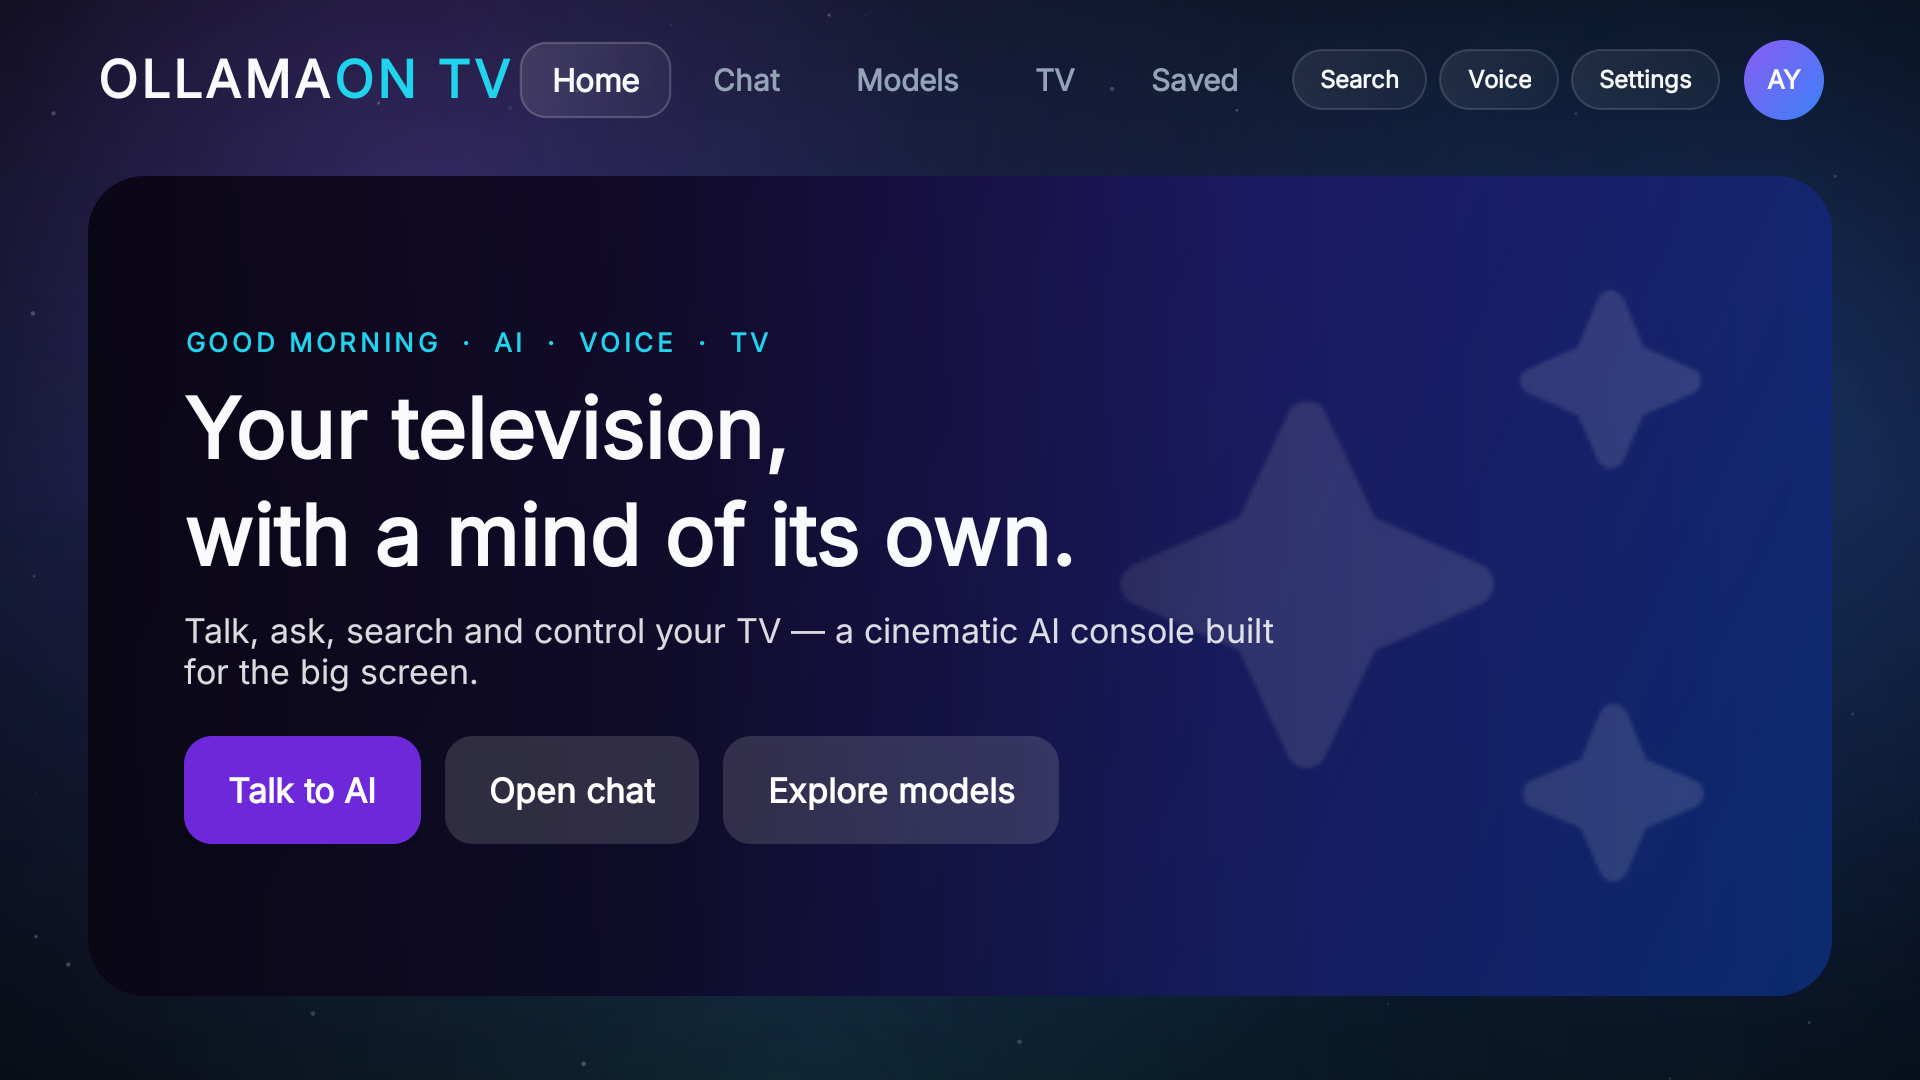
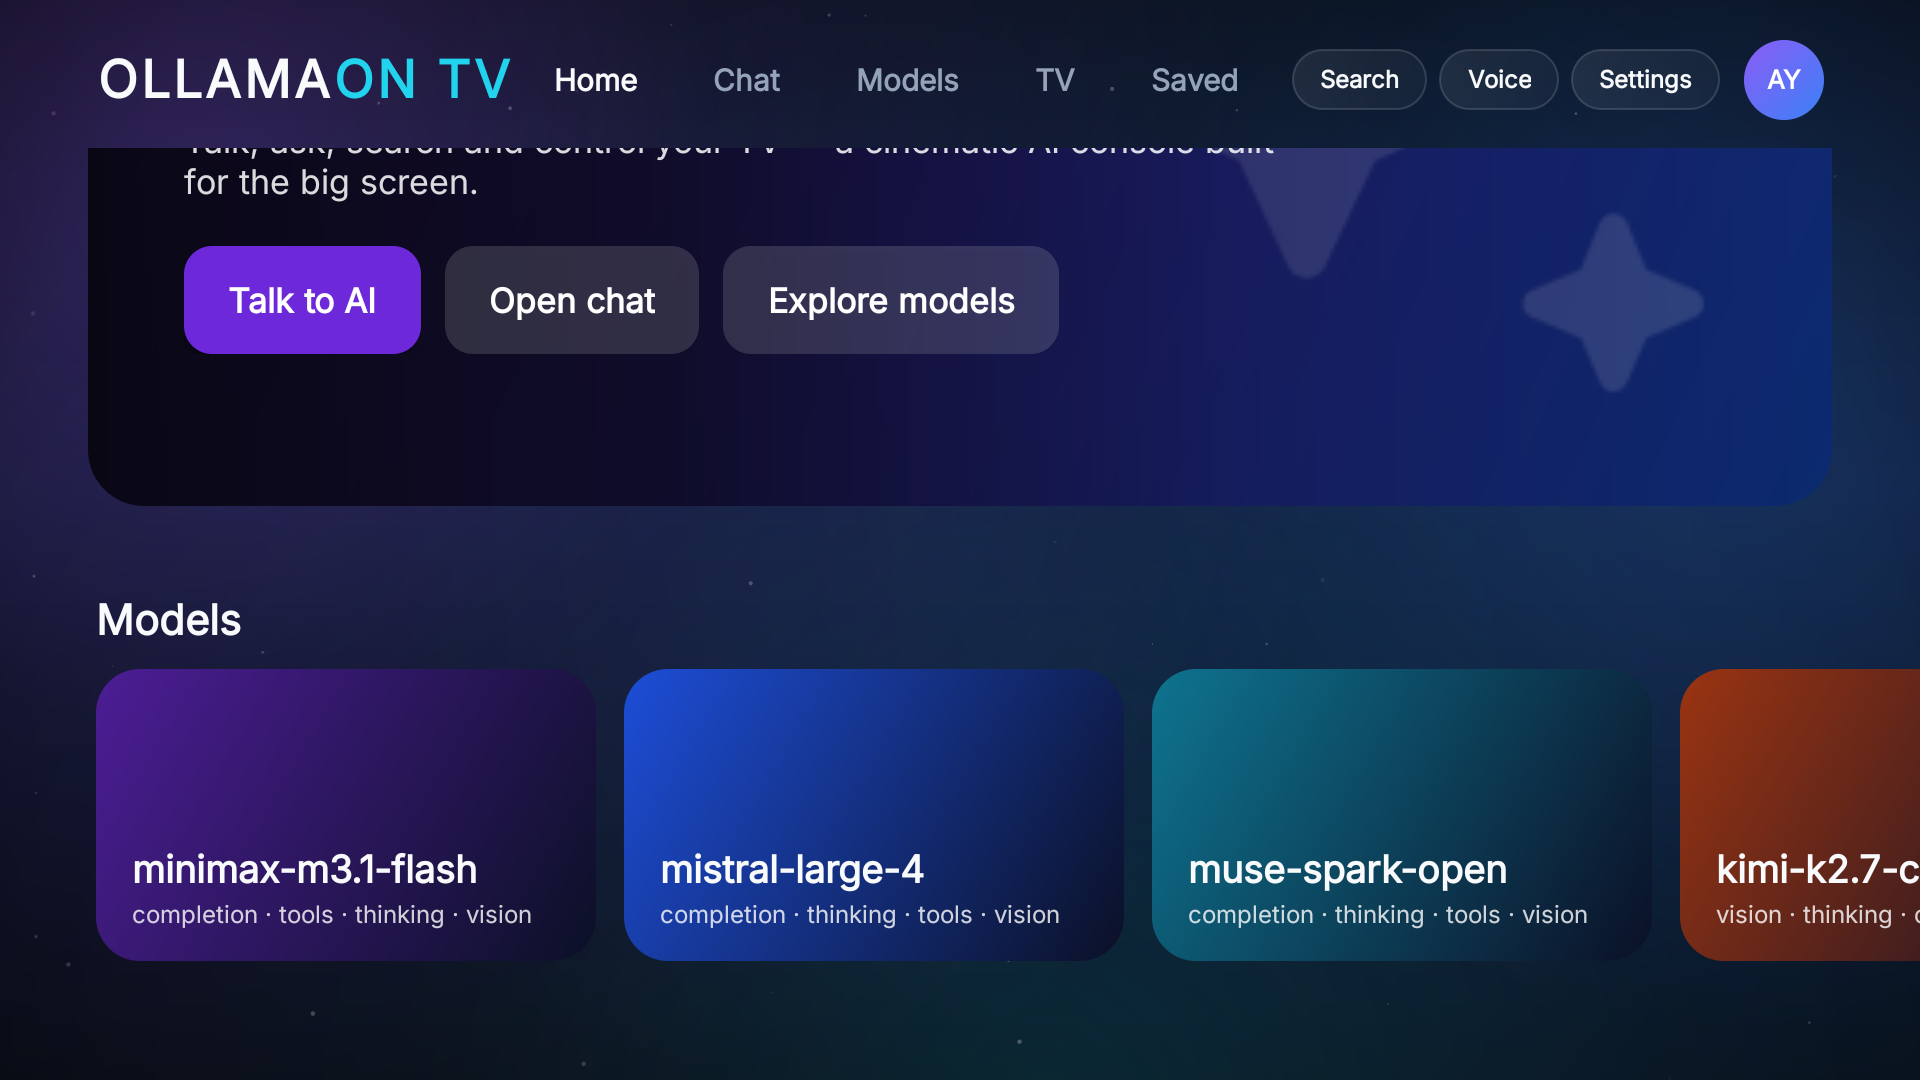
Fix home carousel rows and refresh home screenshot

diff --git a/src/io/ollamaontv/MainActivity.java b/src/io/ollamaontv/MainActivity.java
@@ -384,7 +384,7 @@ public class MainActivity extends Activity {
                 AppLog.w("home models: " + message);
                 final String friendly = Net.friendly(this, Prefs.endpoint(), message);
                 handler.post(() -> {
-                    modelsRow.removeAllViews();
+                    modelsRow.clear();
                     FocusCard error = new FocusCard(this, "Couldn't load models",
                             Net.local(Prefs.endpoint()) ? "Start the relay / tap to retry" : "Check connection / tap to retry",
                             0xFF9A3412, 0xFF0B1026);
@@ -396,7 +396,7 @@ public class MainActivity extends Activity {
     }
 
     private void renderModels() {
-        modelsRow.removeAllViews();
+        modelsRow.clear();
         String current = Prefs.model();
         int[] colors = {0xFF4C1D95, 0xFF1D4ED8, 0xFF0E7490, 0xFF9A3412, 0xFF831843, 0xFF1E40AF};
         for (int i = 0; i < models.size() && i < 10; i++) {

diff --git a/src/io/ollamaontv/HomeRow.java b/src/io/ollamaontv/HomeRow.java
@@ -36,6 +36,10 @@ public class HomeRow extends LinearLayout {
         addView(scroll, UiKit.params(LayoutParams.MATCH_PARENT, UiKit.dp(context, 190), 0, context));
     }
 
+    public void clear() {
+        cards.removeAllViews();
+    }
+
     public FocusCard add(FocusCard card) {
         LinearLayout.LayoutParams params = new LinearLayout.LayoutParams(
                 UiKit.dp(getContext(), 250), UiKit.dp(getContext(), 146));

diff --git a/RELEASE_NOTES.md b/RELEASE_NOTES.md
@@ -13,6 +13,7 @@ project for his TV.
 - Search, details, quick-settings and saved/watchlist overlays
 - VPN-aware connection errors: switch VPN server / disable VPN, or start the local relay
 - Settings **Test connection** and a retrying Models error card
+- Fixed the home carousel rows not rendering (clear cards without removing the row container)
 - Developer credit: every model is told the app was developed by Ansfidine Youssouf
 - Boot service, assistant role and accessibility fallback
 - Inter typography, navigation sounds and reduced-motion support
